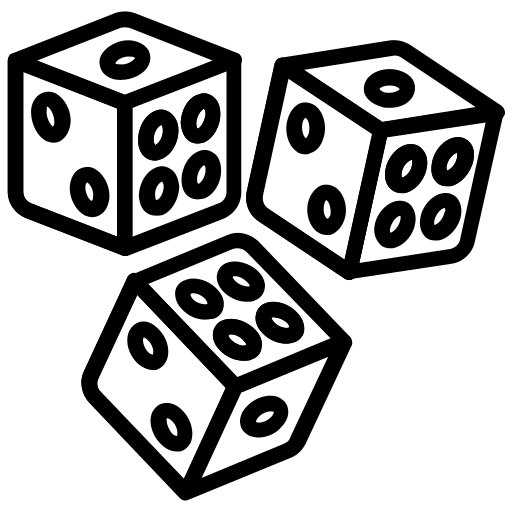
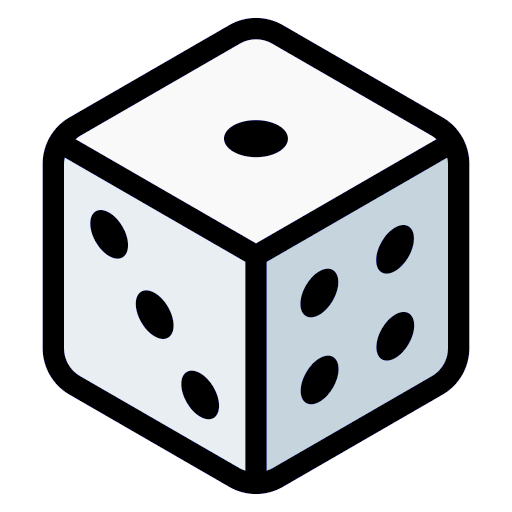
09.14

diff --git a/GUI/gui09_pig.py b/GUI/gui09_pig.py
@@ -62,7 +62,7 @@ class MainWindow(QMainWindow):
         self.dice_label.setStyleSheet(f"color: {font_color};" "font-weight: bold;" "letter-spacing: 4px")
         self.main_layout.addWidget(self.dice_label)
 
-        self.turn_label = QLabel("", self)
+        self.turn_label = QLabel("Good luck", self)
         self.turn_label.setAlignment(Qt.AlignCenter)
         self.turn_label.setFont(QFont(f"{text_font}", 16))
         self.turn_label.setStyleSheet(f"color: {font_color};" "font-weight: bold;" "letter-spacing: 4px")
